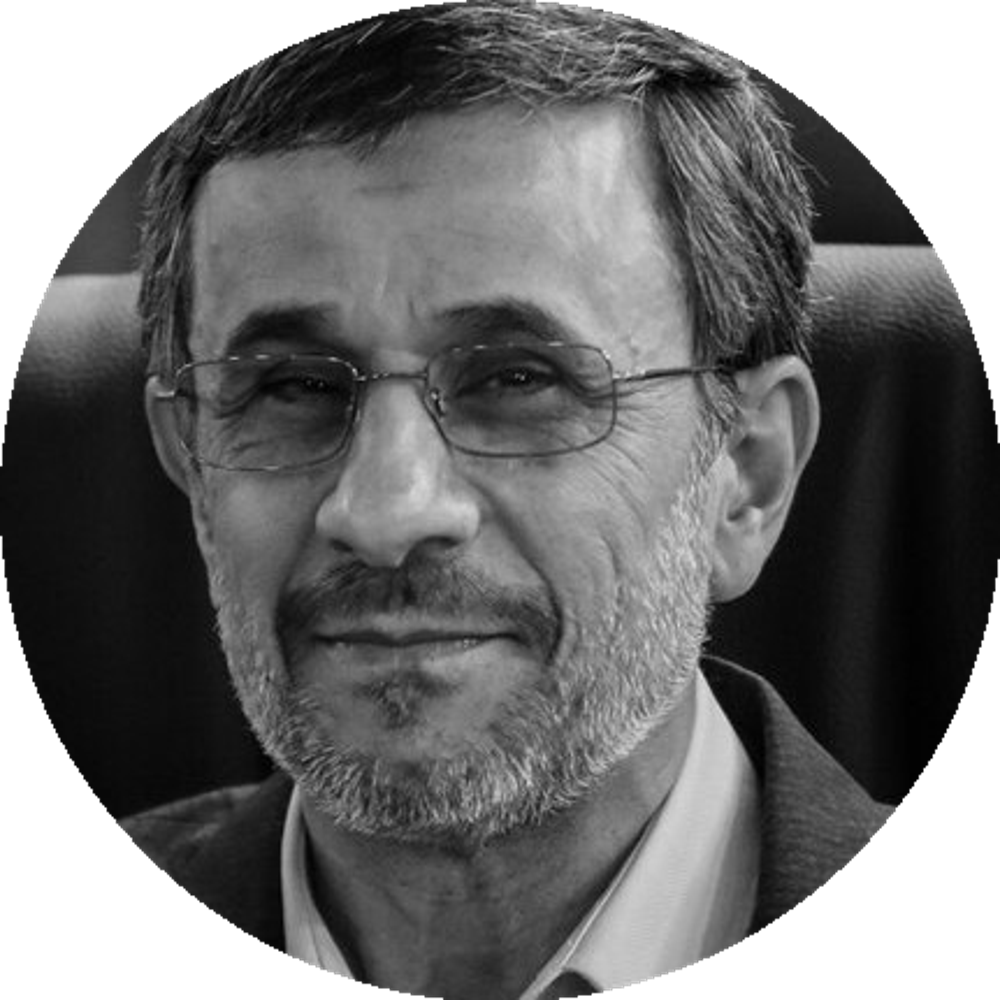
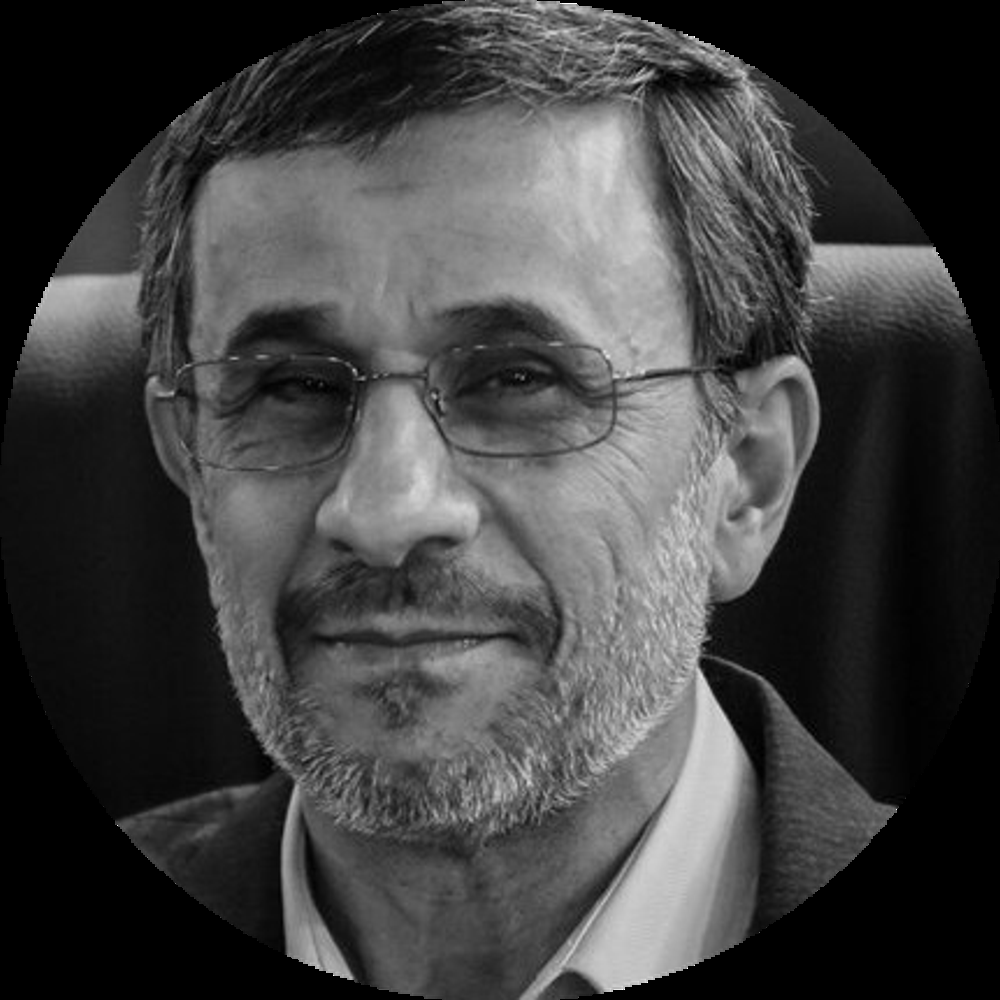
crop

diff --git a/utils.py b/utils.py
@@ -1,0 +1,48 @@
+import math
+
+import numpy as np
+from PIL import Image, ImageDraw, ImageOps
+
+
+class Utils:
+    @staticmethod
+    def make_cropped_grayscale_image(sample_name: str):
+        img = Image.open(f"assets/{sample_name}.jpg")
+
+        w, h = img.size
+        dif = abs(w - h)
+
+        if w < h:
+            if dif % 2 == 0:
+                dif1, dif2 = dif / 2
+            else:
+                dif1 = math.ceil(dif / 2)
+                dif2 = math.floor(dif / 2)
+            h = w
+            img_cropped = img.crop((0, dif1, h, dif1 + h))
+        else:
+            if dif % 2 == 0:
+                dif1, dif2 = dif / 2
+            else:
+                dif1 = math.ceil(dif / 2)
+                dif2 = math.floor(dif / 2)
+            w = h
+
+            img_cropped = img.crop((dif1, 0, dif1 + h, h))
+
+        img_cropped.save(f"result/r_{sample_name}.png")
+
+        size = (w, h)
+        mask = Image.new('L', size, 0)
+        draw = ImageDraw.Draw(mask)
+        draw.pieslice(((0, 0), (h, w)), 0, 360, fill=255, outline="white")
+
+        img_arr = np.array(img_cropped, dtype='uint8')
+        mask_arr = np.array(mask)
+        final_img_arr = np.dstack((img_arr, mask_arr))
+
+        result = Image.fromarray(final_img_arr)
+        result.resize((1000, 1000)).save(f"result/r_{sample_name}.png")
+
+        rgb_img = Image.open(f"result/r_{sample_name}.png").convert('L')
+        rgb_img.save(f"result/r_{sample_name}.png")

diff --git a/main.py b/main.py
@@ -1,43 +1,8 @@
-import math
+from utils import Utils
 
-import numpy as np
-from PIL import Image, ImageDraw, ImageOps
-
-# Open the input image as numpy array, convert to RGB
 sample_name = "mahmud"
-img = Image.open(f"assets/{sample_name}.jpg").convert('L')
 
-w, h = img.size
-dif = abs(w - h)
+Utils.make_cropped_grayscale_image(sample_name)
 
-if w < h:
-    if dif % 2 == 0:
-        dif1, dif2 = dif / 2
-    else:
-        dif1 = math.ceil(dif / 2)
-        dif2 = math.floor(dif / 2)
-    h = w
-    img_cropped = img.crop((0, dif1, h, dif1 + h))
-else:
-    if dif % 2 == 0:
-        dif1, dif2 = dif / 2
-    else:
-        dif1 = math.ceil(dif / 2)
-        dif2 = math.floor(dif / 2)
-    w = h
+pins_count = 100
 
-    img_cropped = img.crop((dif1, 0, dif1 + h, h))
-
-img_cropped.save(f"result/r_{sample_name}.png")
-
-size = (w, h)
-mask = Image.new('L', size, 0)
-draw = ImageDraw.Draw(mask)
-draw.pieslice([(0, 0), (h, w)], 0, 360,
-              fill=255, outline="white")
-img_arr = np.array(img_cropped, dtype='uint8')
-mask_arr = np.array(mask)
-final_img_arr = np.dstack((img_arr, mask_arr))
-
-result = Image.fromarray(final_img_arr)
-result.resize((1000, 1000)).save(f"result/r_{sample_name}.png")
